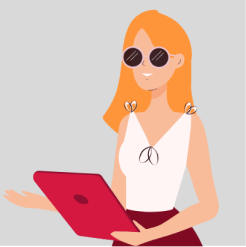
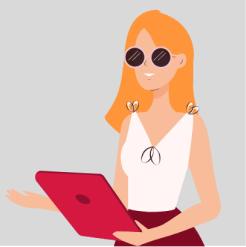
<3

diff --git a/App.js b/App.js
@@ -80,8 +80,8 @@ const styles = StyleSheet.create({
   },
 
   img2: {
-    width: 230,
-    height: 230,
+    width: 200,
+    height: 200,
   },
 
   img3: {
